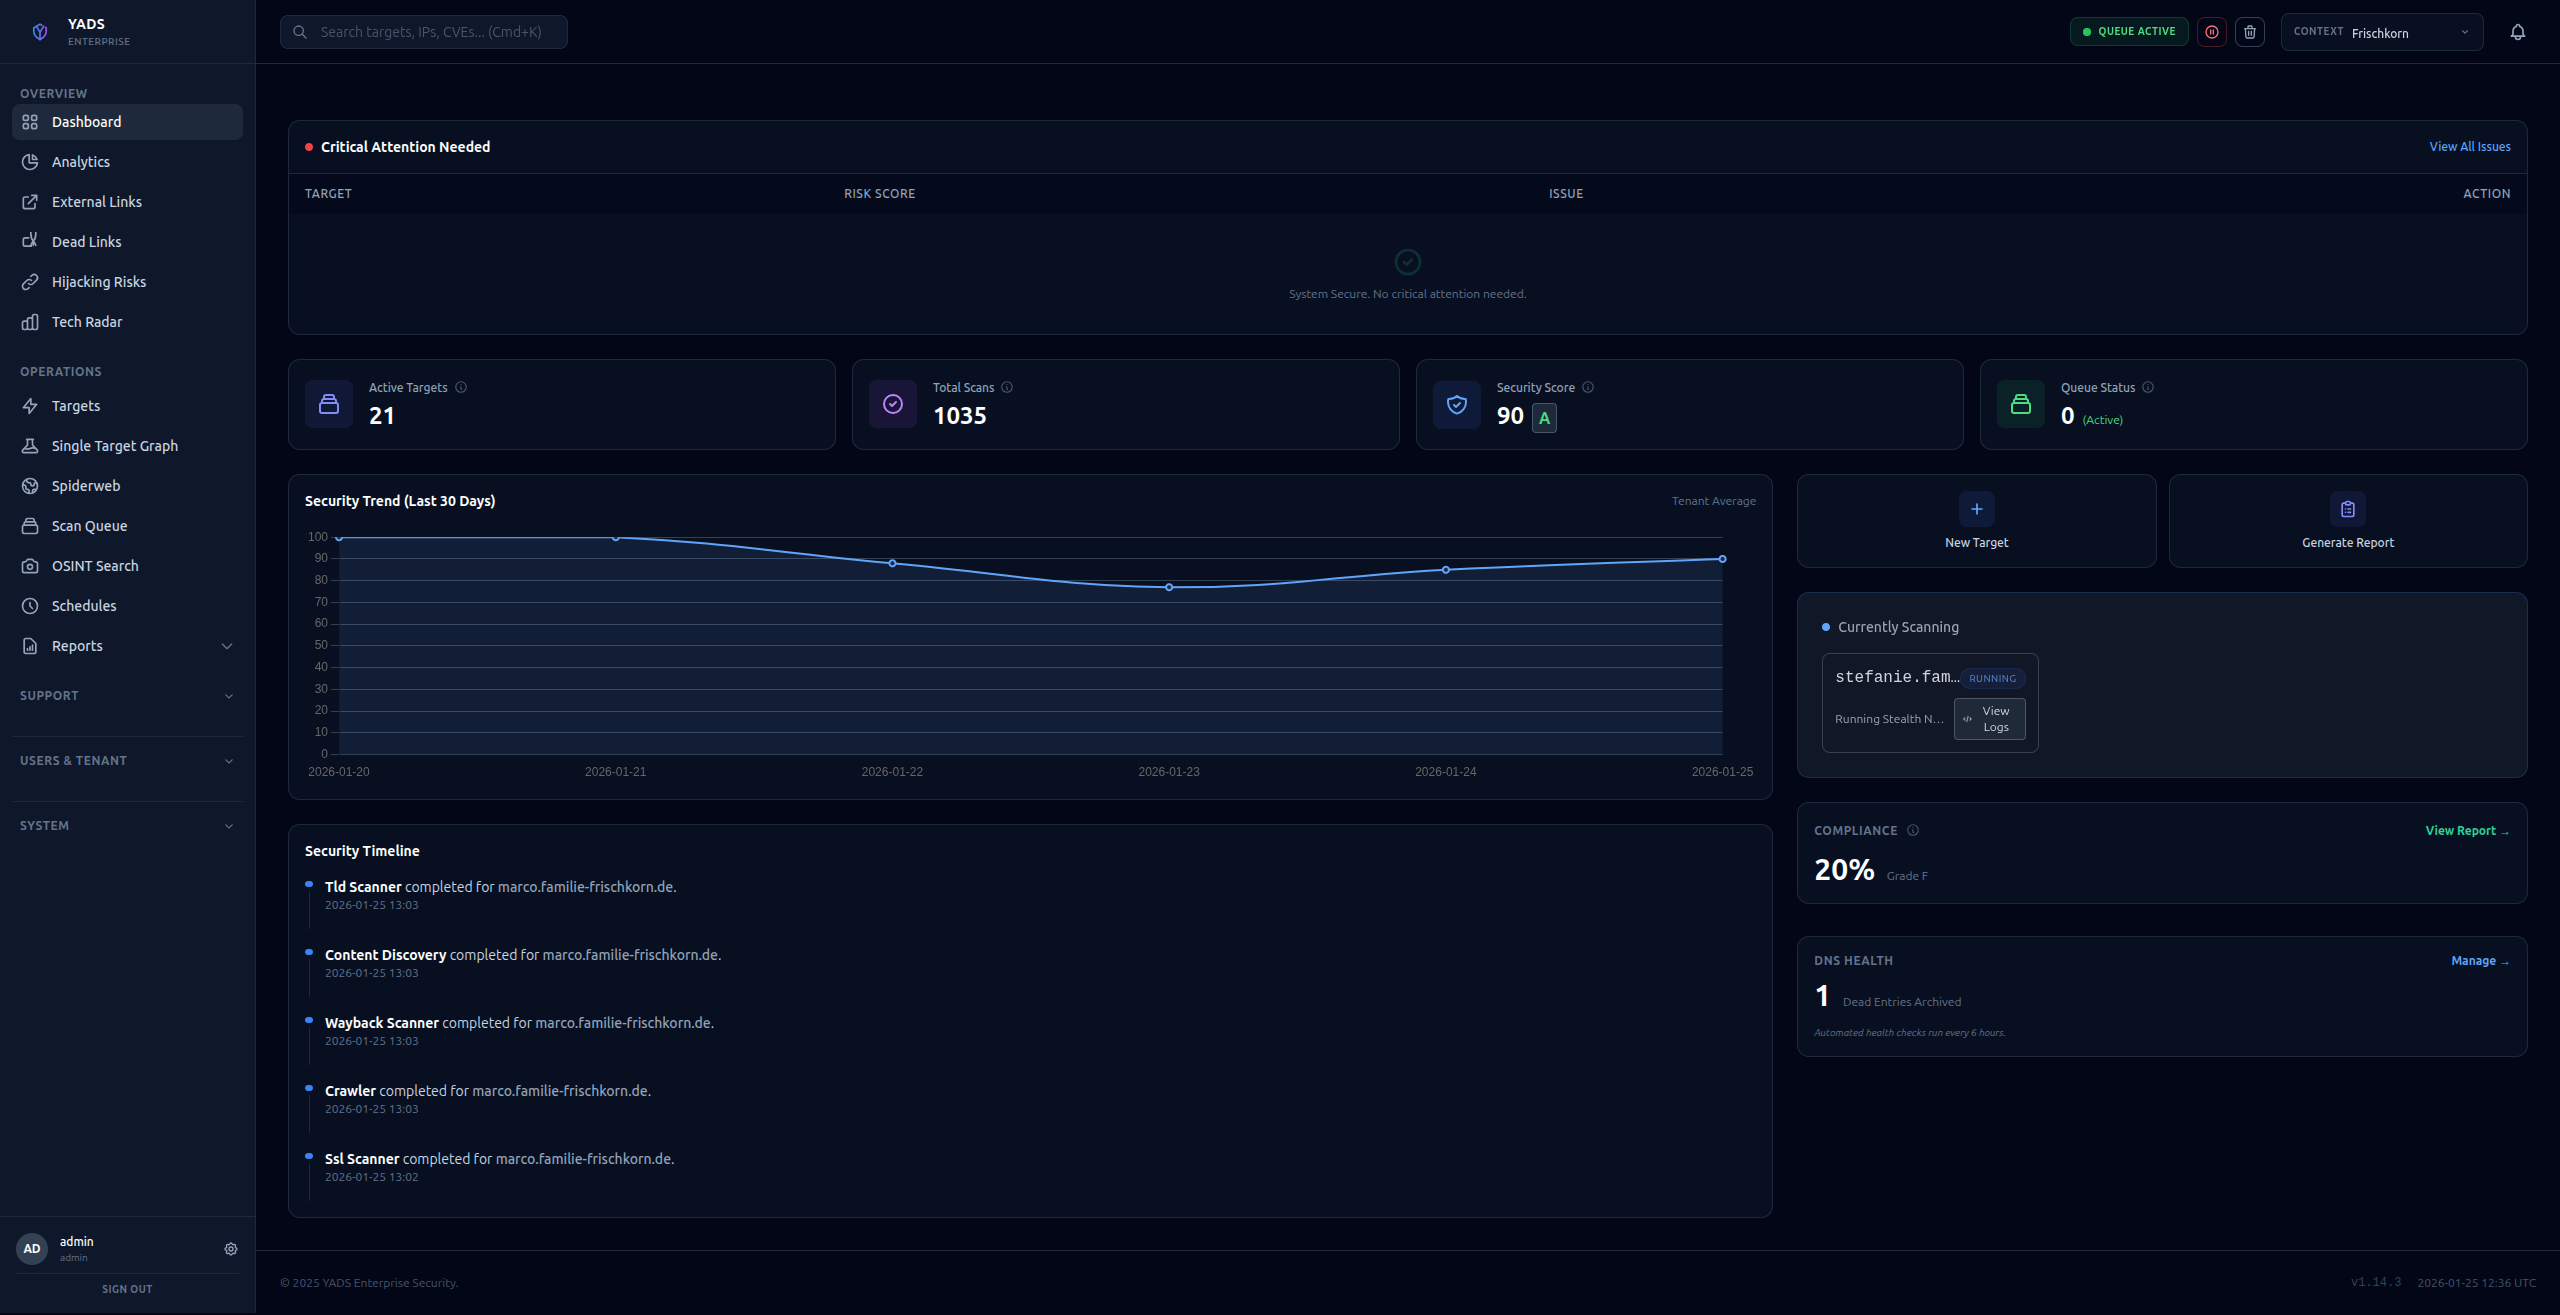
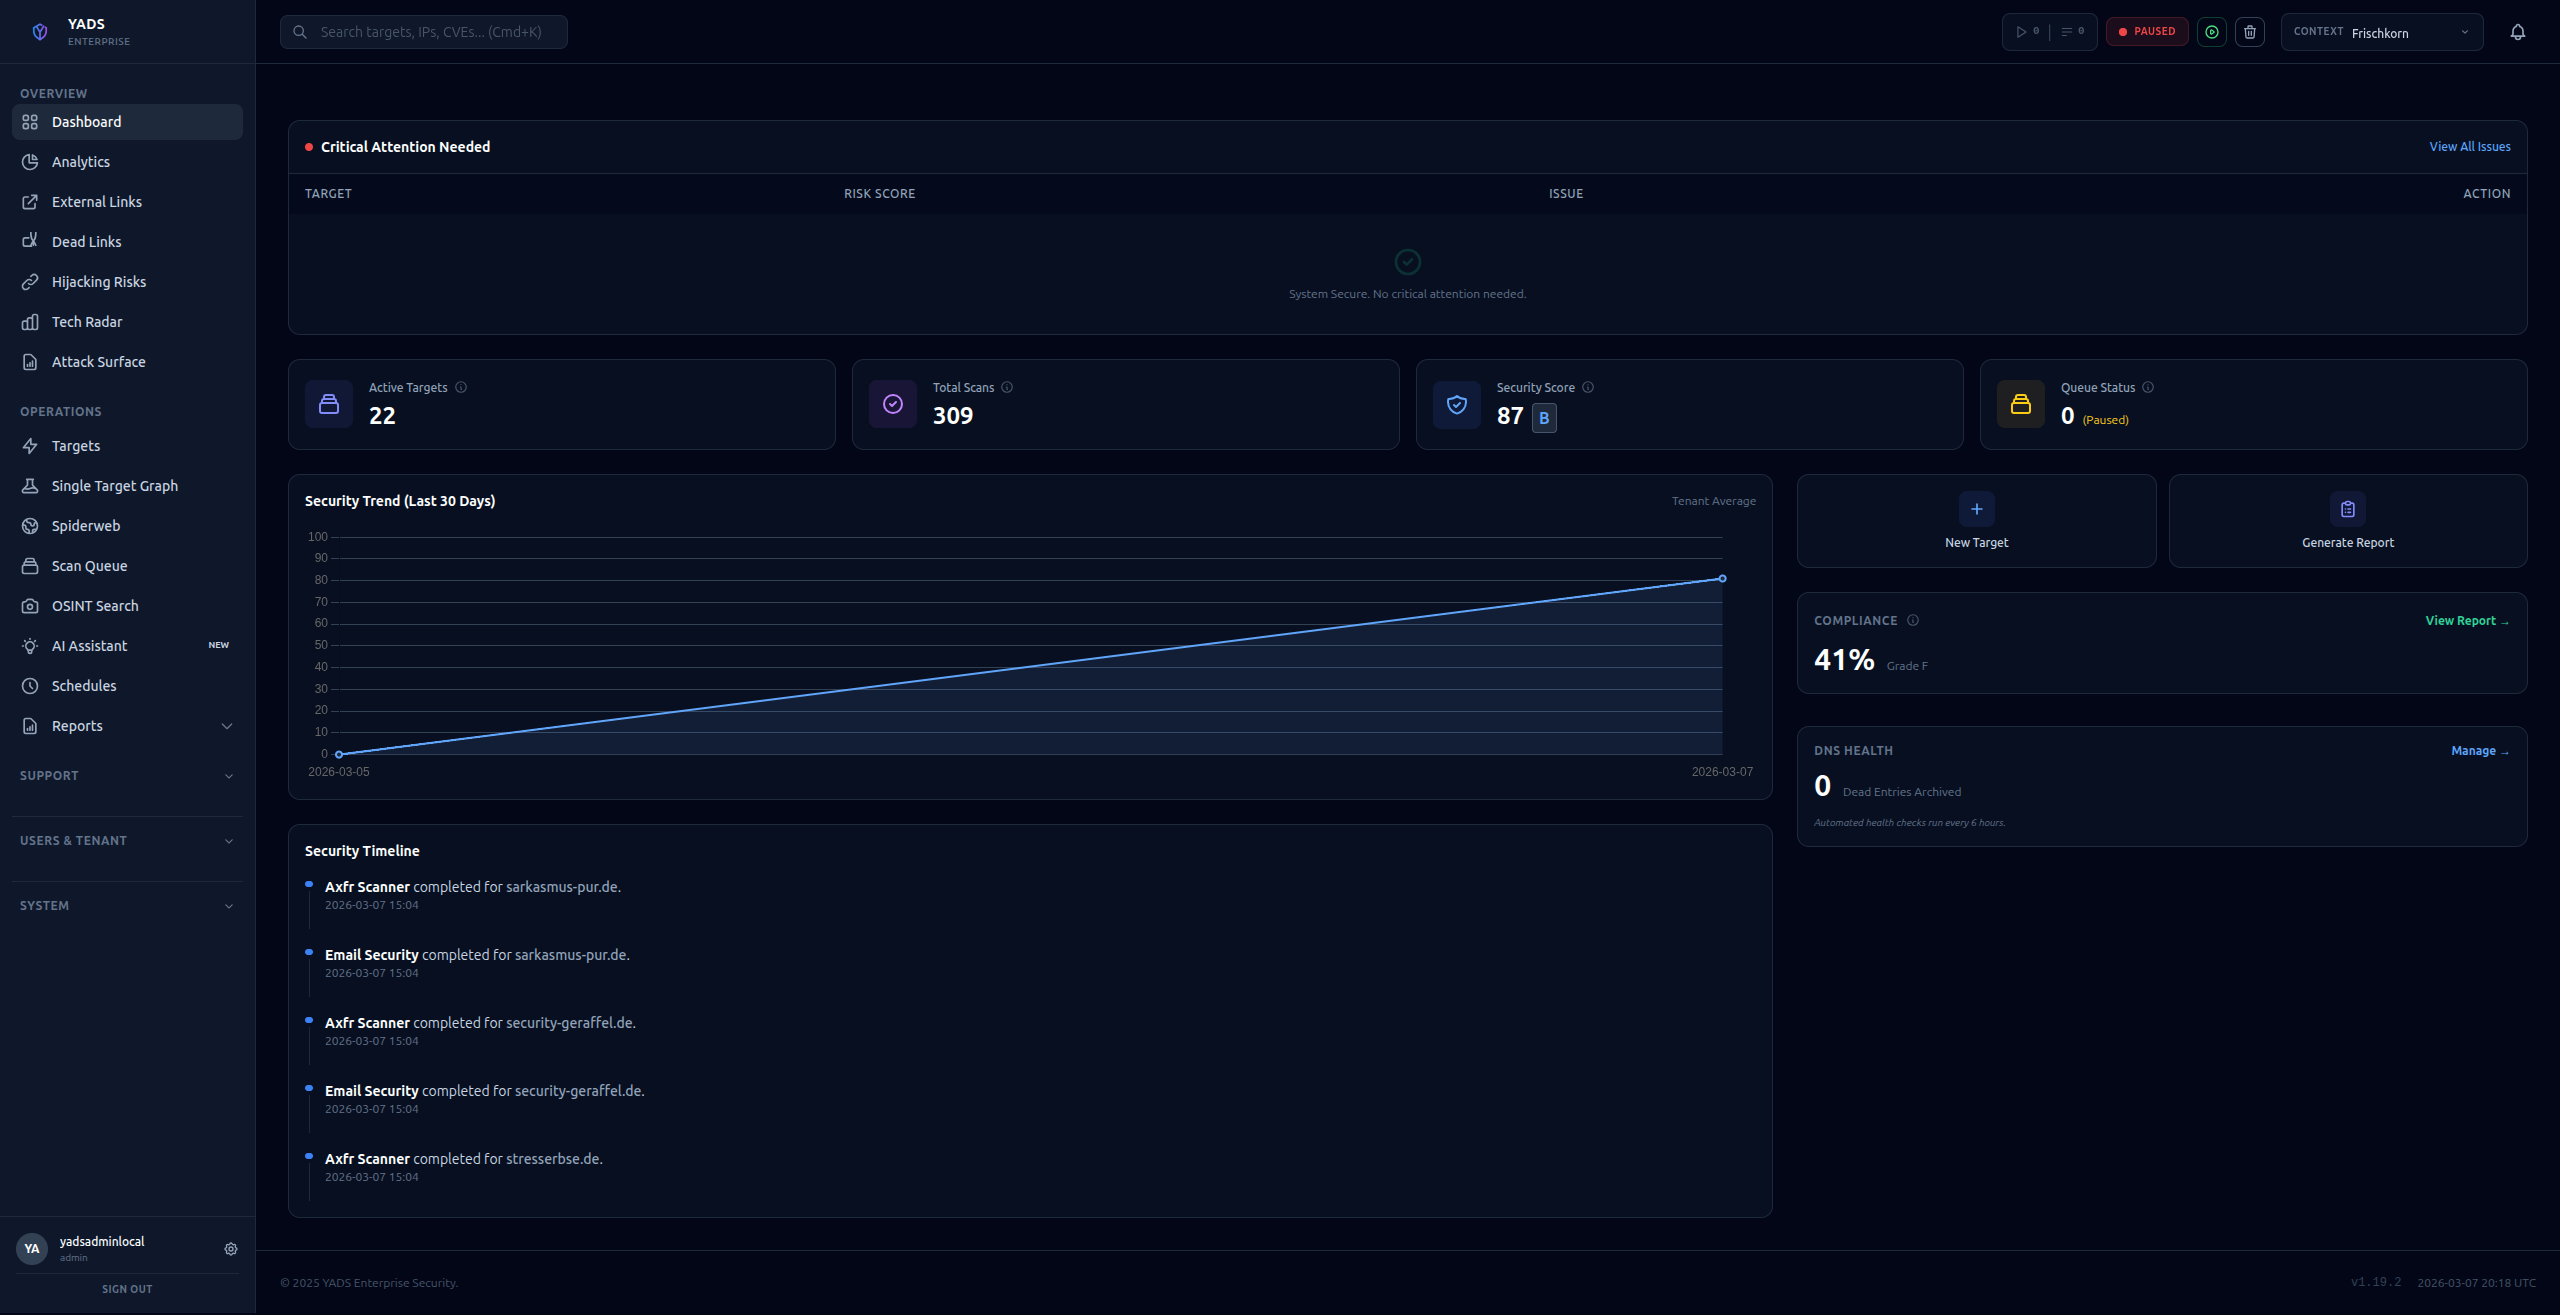
feat(homepage): replace all screenshots with v1.20 product images in product.html
- Copied 26 new v1.20 screenshots to en/images/ (replaces old v1.18/v1.19 shots)
- Key replacements: dashboard, targets-table, analytics, tech-radar, dead-links,
  reports, report-builder, osint, scan-queue, spiderweb_graph
- Added new screenshots: ai-assistant, pqc, security-findings, scan-modules,
  attack-path/surface, executive-report, portfolio, integrations, users, tags, storage
- EN product.html: "Spiderweb Intelligence" → "Attack Path Visualizer" to match new screenshot
- EN product.html: "Scan Queue" → "Platform Settings & Control" to match settings.png
- DE product.html: same section updates in German

diff --git a/yads-homepage/de/product.html b/yads-homepage/de/product.html
@@ -99,11 +99,11 @@
         <section class="feature-section">
             <div class="feature-text">
                 <span class="feature-tag">Visualisierung</span>
-                <h2 style="font-size: 2.5rem; margin-bottom: 1rem;">Spiderweb Intelligenz</h2>
+                <h2 style="font-size: 2.5rem; margin-bottom: 1rem;">Angriffspfad-Visualisierung</h2>
                 <p style="color: var(--text-secondary); margin-bottom: 2rem;">
-                    Listen Sie Assets nicht einfach nur auf – verstehen Sie sie. Unser interaktiver Spiderweb-Graph visualisiert die komplexen Beziehungen zwischen Domains, DNS-Einträgen und Hosting-Providern.
+                    Listen Sie Schwachstellen nicht einfach auf – verstehen Sie, wie sie sich verketten. Der interaktive Angriffspfad-Graph zeigt, wie ein Angreifer sich von einem ersten Zugang zu einer tieferen Kompromittierung vorarbeiten könnte, mit risikogewichteten Kanten und Knoten-Details.
                 </p>
-                <p style="color: var(--text-secondary);">Identifizieren Sie Cluster, entdecken Sie Abhängigkeiten von Drittanbietern und finden Sie versteckte Verbindungen.</p>
+                <p style="color: var(--text-secondary);">Farbcodiert nach Risikograd. Klicken Sie auf beliebige Knoten, um Befunde, CVEs und offene Ports einzusehen. Enthält auch den Spiderweb-Redirect-Graph für Domain-Beziehungen.</p>
             </div>
             <div class="feature-image">
                 <img src="https://yads-security.com/images/spiderweb_graph.png" alt="Network Graph">
@@ -266,14 +266,15 @@
         <section class="feature-section">
             <div class="feature-text">
                 <span class="feature-tag">Betrieb</span>
-                <h2 style="font-size: 2.5rem; margin-bottom: 1rem;">Scan-Warteschlange</h2>
+                <h2 style="font-size: 2.5rem; margin-bottom: 1rem;">Plattform-Einstellungen &amp; Steuerung</h2>
                 <p style="color: var(--text-secondary); margin-bottom: 2rem;">
-                    Überwachen und verwalten Sie Ihre Scan-Operationen in Echtzeit. Sehen Sie laufende Scans, Warteschlangen-Status und Worker-Auslastung in einer zentralen Oberfläche.
+                    Volle Betriebskontrolle über eine zentrale Einstellungsoberfläche. Scan-Warteschlange verwalten, API-Schlüssel und Integrationen konfigurieren, verteilte Worker steuern und Systemgesundheit in Echtzeit überwachen.
                 </p>
                 <ul style="list-style: none; margin-bottom: 1rem; color: var(--text-secondary);">
-                    <li style="margin-bottom: 0.5rem;">⚡ Echtzeit-Fortschrittsverfolgung</li>
-                    <li style="margin-bottom: 0.5rem;">⚡ Warteschlangen-Verwaltung</li>
-                    <li style="margin-bottom: 0.5rem;">⚡ Worker-Status-Überwachung</li>
+                    <li style="margin-bottom: 0.5rem;">⚡ Echtzeit Scan-Queue &amp; Worker-Management</li>
+                    <li style="margin-bottom: 0.5rem;">⚡ Verteilte Worker-Skalierung (Docker Swarm)</li>
+                    <li style="margin-bottom: 0.5rem;">⚡ API-Schlüssel-Verwaltung (Shodan, VirusTotal, etc.)</li>
+                    <li style="margin-bottom: 0.5rem;">⚡ One-Click Updates &amp; Prometheus Metriken</li>
                 </ul>
             </div>
             <div class="feature-image">

diff --git a/yads-homepage/en/product.html b/yads-homepage/en/product.html
@@ -99,11 +99,11 @@
         <section class="feature-section">
             <div class="feature-text">
                 <span class="feature-tag">Visualization</span>
-                <h2 style="font-size: 2.5rem; margin-bottom: 1rem;">Spiderweb Intelligence</h2>
+                <h2 style="font-size: 2.5rem; margin-bottom: 1rem;">Attack Path Visualizer</h2>
                 <p style="color: var(--text-secondary); margin-bottom: 2rem;">
-                    Don't just list assets – understand them. Our interactive Spiderweb graph visualizes complex relationships between domains, DNS records, and hosting providers.
+                    Don't just list vulnerabilities – understand how they chain together. The interactive Attack Path graph shows how an attacker could move from initial access to deeper compromise, with risk-weighted edges and node details.
                 </p>
-                <p style="color: var(--text-secondary);">Identify clusters, discover third-party dependencies, and find hidden connections.</p>
+                <p style="color: var(--text-secondary);">Color-coded by risk severity. Click any node to inspect findings, CVEs, and open ports. Also includes the Spiderweb redirect graph for domain relationship mapping.</p>
             </div>
             <div class="feature-image">
                 <img src="./images/spiderweb_graph.png" alt="Network Graph">
@@ -265,14 +265,15 @@
         <section class="feature-section">
             <div class="feature-text">
                 <span class="feature-tag">Operations</span>
-                <h2 style="font-size: 2.5rem; margin-bottom: 1rem;">Scan Queue</h2>
+                <h2 style="font-size: 2.5rem; margin-bottom: 1rem;">Platform Settings & Control</h2>
                 <p style="color: var(--text-secondary); margin-bottom: 2rem;">
-                    Monitor and manage your scan operations in real-time. View running scans, queue status, and worker utilization from a centralized interface.
+                    Full operational control from a centralized settings interface. Manage the scan queue, configure API keys and integrations, control distributed workers, and monitor system health in real-time.
                 </p>
                 <ul style="list-style: none; margin-bottom: 1rem; color: var(--text-secondary);">
-                    <li style="margin-bottom: 0.5rem;">⚡ Real-time Progress Tracking</li>
-                    <li style="margin-bottom: 0.5rem;">⚡ Queue Management</li>
-                    <li style="margin-bottom: 0.5rem;">⚡ Worker Status Monitoring</li>
+                    <li style="margin-bottom: 0.5rem;">⚡ Real-time Scan Queue & Worker Management</li>
+                    <li style="margin-bottom: 0.5rem;">⚡ Distributed Worker Scaling (Docker Swarm)</li>
+                    <li style="margin-bottom: 0.5rem;">⚡ API Key Management (Shodan, VirusTotal, etc.)</li>
+                    <li style="margin-bottom: 0.5rem;">⚡ One-Click Updates & Prometheus Metrics</li>
                 </ul>
             </div>
             <div class="feature-image">
